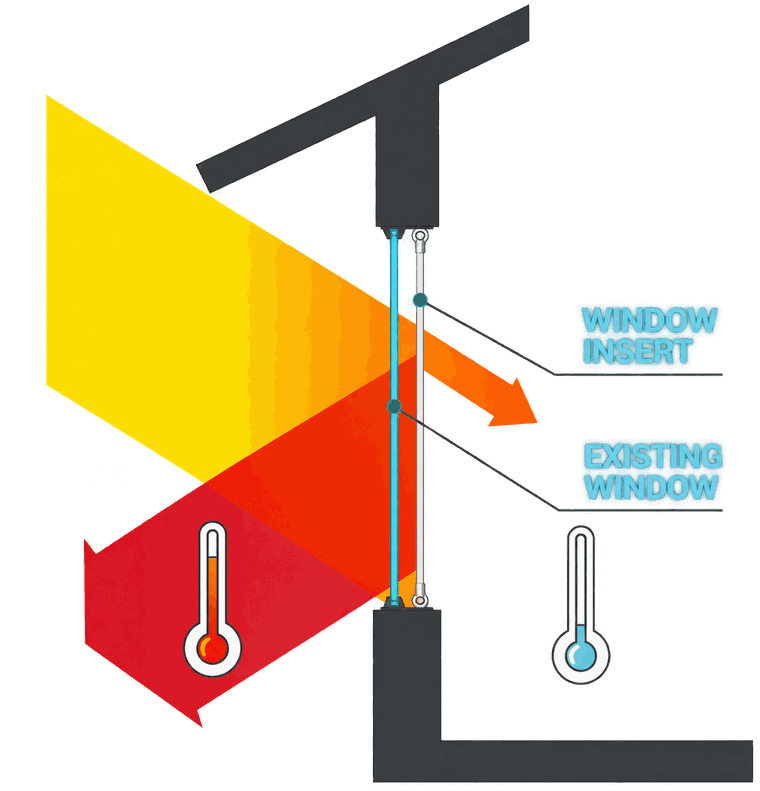
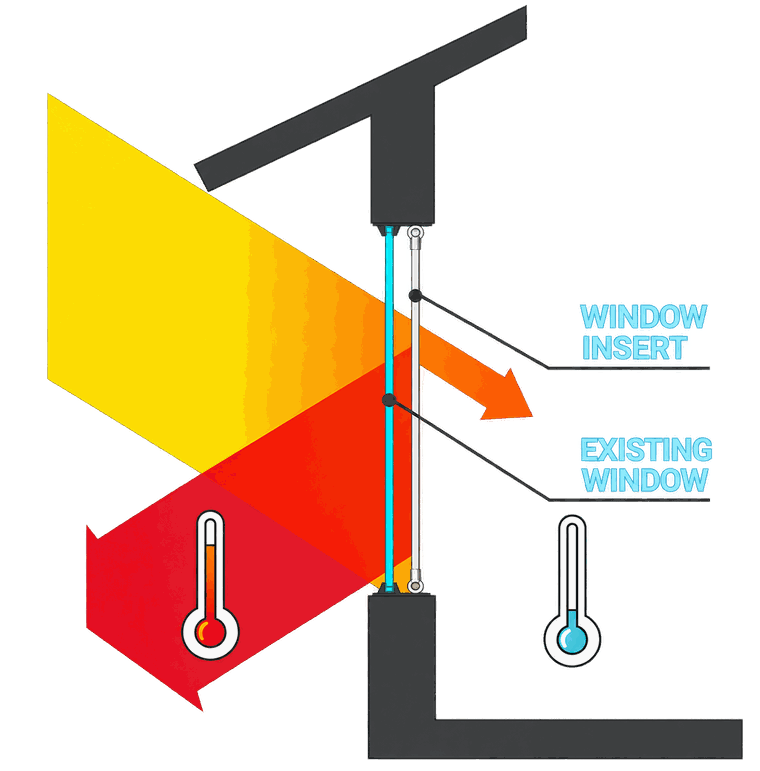
update adding hte noise reduction

diff --git a/window-inserts/index.html b/window-inserts/index.html
@@ -128,8 +128,8 @@ j=d.createElement(s),dl=l!='dataLayer'?'&l='+l:'';j.async=true;j.src=
       <div>
         <p class="eyebrow">Window Inserts · Long Island · East End · NYC</p>
         <h1>Custom Window Inserts for Quieter, More Comfortable Rooms</h1>
-        <p class="page-hero__sub">A quieter, more comfortable room without replacing your windows. A custom-measured interior insert presses into the existing window opening and seals against the frame — adding a layer of still air that helps reduce outside noise, drafts and temperature transfer. Removable whenever you want.</p>
-        <div class="page-hero__actions"><a class="btn btn--cyan btn--lg" href="../contact/?service=window-inserts">Schedule a Consultation</a><a class="btn btn--ghost btn--lg" href="tel:+15163369586">Call 516-336-9586</a></div>
+        <p class="page-hero__sub">Make the room quieter without replacing the windows. A custom-measured interior insert presses into the existing opening and seals against the frame, adding a second layer that helps reduce the outside noise coming through the window &mdash; and, with it, drafts and temperature transfer. Removable whenever you want.</p>
+        <div class="page-hero__actions"><a class="btn btn--cyan btn--lg" href="#quote">Get a Free Quote</a><a class="btn btn--ghost btn--lg" href="tel:+15163369586">Call 516-336-9586</a></div>
       </div>
       <figure class="imgslot imgslot--filled imgslot--thumb imgslot--flat" data-slot="components" data-asset-source="manufacturer">
         <img src="../assets/window-inserts/insert-cutaway-labeled.png" alt="Cutaway of a window insert corner, labelled: silicone tubing around the outside, the ABS carrier holding it, and the acrylic glazing panel" width="560" height="716" loading="eager" fetchpriority="high" decoding="async">
@@ -138,7 +138,38 @@ j=d.createElement(s),dl=l!='dataLayer'?'&l='+l:'';j.async=true;j.src=
   </div>
 </section>
 
-<!-- 2 · THE THREE PARTS, EXPLAINED -->
+<!-- 2 · QUIETER ROOMS — the primary selling point, first thing after the hero.
+     The three cards are GENERATED by tools/build.py. With
+     site.config.json -> windowInserts.manufacturerClaims.enabled = false they
+     are qualitative; set it true (only once the owner confirms the product is
+     Indow Acoustic Grade) and the build swaps in the manufacturer's published
+     figures, attributed to Indow. See docs/NOISE-CLAIMS-PENDING.md. -->
+<section class="section section--navy noise" id="quieter">
+  <div class="container">
+    <div class="section-head center">
+      <p class="eyebrow eyebrow--light" style="justify-content:center">Quieter rooms</p>
+      <h2>Reduce the outside noise coming through your windows</h2>
+      <p class="lead measure center">Traffic, sirens and everyday street noise find their way indoors through windows &mdash; through the glass, and just as much through the gaps around an older sash. A custom-fit insert adds another sealed layer inside the existing opening, helping reduce the sound that makes it through the window without replacing the original window.</p>
+    </div>
+    <div class="noise__row noise__row--visual">
+      <div class="noise__points">
+        <!-- @partial:insert-claims -->
+<div class="card" data-reveal><h3>Up to 70% noise reduction</h3><p>Indow Acoustic Grade inserts are designed to reduce outside noise by up to 70%. In Manhattan, Brooklyn and Queens the window is often the thinnest thing between you and the street; how much a room gains depends on its windows and the other paths sound takes in.</p></div>
+<div class="card" data-reveal><h3>Average 20% energy savings</h3><p>Indow reports average energy savings of 20% with its window inserts &mdash; fewer drafts and less heat moving through the glass, a second benefit you feel in winter and in summer.</p></div>
+<div class="card" data-reveal><h3>Over 99% perfect fit rate</h3><p>Indow reports a perfect-fit rate of over 99% for its custom-measured inserts, with its Snug Fit compression tubing sealing against the frame. Pellikal measures, supplies and installs; the original window is not modified.</p></div>
+<p class="microcopy" style="grid-column:1/-1;margin:.2rem 0 0">Figures published by Indow for its inserts; the noise figure applies to Acoustic Grade. Not a guarantee of results in your room.</p>
+<!-- @end -->
+      </div>
+      <figure class="noise__visual imgslot imgslot--filled imgslot--flat" data-slot="noise-ambulance">
+        <img src="../assets/window-inserts/noise-ambulance.png" alt="Illustration: an ambulance with its siren sounding outside a house window; most of the sound waves bounce off the window insert and only a small amount reaches the room" width="760" height="625" loading="lazy" decoding="async">
+      </figure>
+    </div>
+    <p class="noise__callout" data-reveal><strong>Already have double-pane windows? You can still get quieter.</strong> Double-pane glass already does some of the work, so the gain is smaller than on an older, thinner window &mdash; but a sealed insert adds another layer and closes the gaps around the sash, which is often where the noise is getting in.</p>
+    <p class="microcopy center" style="max-width:64ch;margin:1.2rem auto 0">Quieter, not silent. Sound also enters through walls, doors, ceilings and vents, so no window product makes a room soundproof. How much a room gains depends on the existing windows, the fit and those other paths. Not every opening suits an insert; the consultation determines fit.</p>
+  </div>
+</section>
+
+<!-- 3 · THE THREE PARTS, EXPLAINED -->
 <section class="section section--mist">
   <div class="container">
     <div class="section-head center">
@@ -155,7 +186,7 @@ j=d.createElement(s),dl=l!='dataLayer'?'&l='+l:'';j.async=true;j.src=
 </section>
 
 
-<!-- 3 · HOW IT WORKS — DRAFTS AND HEAT (moved above the form, 14 Sep) -->
+<!-- 4 · HOW IT WORKS — DRAFTS AND HEAT -->
 <section class="section">
   <div class="container">
     <div class="section-head center">
@@ -170,7 +201,7 @@ j=d.createElement(s),dl=l!='dataLayer'?'&l='+l:'';j.async=true;j.src=
       </figure>
       <div data-reveal>
         <h3>Stopping the draft</h3>
-        <p>Older sashes and single-pane windows leak air around the edges. That moving air is why a room can feel cold near the window even when the thermostat says otherwise, and why heating runs longer than it should.</p>
+        <p>Older sashes and loose-fitting windows leak air around the edges. That moving air is why a room can feel cold near the window even when the thermostat says otherwise, and why heating runs longer than it should.</p>
         <p>The insert's compressible edge seals against the frame all the way around, so the leak path is closed off. The draft you feel sitting beside the window is the thing most clients notice first.</p>
       </div>
     </div>
@@ -180,12 +211,12 @@ j=d.createElement(s),dl=l!='dataLayer'?'&l='+l:'';j.async=true;j.src=
     <div class="grid grid--2" style="gap:clamp(1.6rem,4vw,3rem);align-items:center">
       <div data-reveal>
         <h3>Slowing heat transfer</h3>
-        <p>Glass conducts heat readily in both directions — out in winter, in during summer. A single pane has very little to slow it down.</p>
+        <p>Glass conducts heat readily in both directions — out in winter, in during summer. Glass alone has very little to slow it down.</p>
         <p>Adding a second layer traps a pocket of still air between the insert and your existing glass. Still air conducts heat poorly, so the transfer through the window slows and the temperature near the glass evens out.</p>
         <p class="microcopy">Diagrams are illustrative of the principle. Actual results depend on the window, the frame, the insert selected and conditions outside.</p>
       </div>
       <figure class="imgslot imgslot--filled imgslot--sm imgslot--flat" data-slot="diagram-heat">
-        <img src="../assets/window-inserts/diagram-heat.png" alt="Diagram: sunlight and heat striking a window, reduced at the insert fitted inside the existing window, with a cooler thermometer on the room side" width="760" height="791" loading="lazy" decoding="async">
+        <img src="../assets/window-inserts/diagram-heat.png" alt="Diagram: sunlight and heat striking a window, reduced at the insert fitted inside the existing window, with a cooler thermometer on the room side" width="760" height="771" loading="lazy" decoding="async">
       </figure>
     </div>
   </div>
@@ -242,7 +273,7 @@ j=d.createElement(s),dl=l!='dataLayer'?'&l='+l:'';j.async=true;j.src=
 
 
 
-<!-- 4 · MEASUREMENT & FITTING -->
+<!-- 5 · MEASUREMENT & FITTING -->
 <section class="section section--navy">
   <div class="container">
     <div class="section-head center">
@@ -282,7 +313,7 @@ j=d.createElement(s),dl=l!='dataLayer'?'&l='+l:'';j.async=true;j.src=
   </div>
 </section>
 
-<!-- 5 · TWO INSTALLATIONS — not a before/after (moved below measurements, 14 Sep) -->
+<!-- 6 · TWO INSTALLATIONS — not a before/after -->
 <section class="section section--mist">
   <div class="container">
     <div class="section-head center">
@@ -304,13 +335,13 @@ j=d.createElement(s),dl=l!='dataLayer'?'&l='+l:'';j.async=true;j.src=
   </div>
 </section>
 
-<!-- 6 · WHAT INSERTS HELP WITH -->
+<!-- 7 · WHAT INSERTS HELP WITH -->
 <section class="section">
   <div class="container">
     <div class="section-head center"><p class="eyebrow" style="justify-content:center">What inserts help with</p><h2>Noise, drafts and comfort</h2><p class="lead measure center">Results depend on the window, the frame, the insert selected and what's happening outside — but these are the problems people come to us with.</p></div>
     <div class="grid grid--3">
       <div class="card" data-reveal><div class="card__ic"><svg viewBox="0 0 24 24" fill="none" stroke="currentColor" stroke-width="2" stroke-linecap="round" stroke-linejoin="round" aria-hidden="true"><path d="M11 5 6 9H2v6h4l5 4z"/><path d="M15.5 8.5a5 5 0 0 1 0 7M19 5a10 10 0 0 1 0 14"/></svg></div><h3>Outside noise</h3><p>Traffic, street activity, neighbours, landscaping crews. The sealed second layer helps reduce the sound coming through the glass — often the reason people call us first.</p></div>
-      <div class="card" data-reveal><div class="card__ic"><svg viewBox="0 0 24 24" fill="none" stroke="currentColor" stroke-width="2" stroke-linecap="round" stroke-linejoin="round" aria-hidden="true"><path d="M3 12h4l3-7 4 14 3-7h4"/></svg></div><h3>Drafts</h3><p>Older sashes and single-pane windows leak air. An insert that seals to the frame helps stop the draft you feel sitting near the window in winter.</p></div>
+      <div class="card" data-reveal><div class="card__ic"><svg viewBox="0 0 24 24" fill="none" stroke="currentColor" stroke-width="2" stroke-linecap="round" stroke-linejoin="round" aria-hidden="true"><path d="M3 12h4l3-7 4 14 3-7h4"/></svg></div><h3>Drafts</h3><p>Older sashes and loose-fitting windows leak air. An insert that seals to the frame helps stop the draft you feel sitting near the window in winter.</p></div>
       <div class="card" data-reveal><div class="card__ic"><svg viewBox="0 0 24 24" fill="none" stroke="currentColor" stroke-width="2" stroke-linecap="round" stroke-linejoin="round" aria-hidden="true"><path d="M14 14.76V3.5a2.5 2.5 0 0 0-5 0v11.26a4.5 4.5 0 1 0 5 0z"/></svg></div><h3>Temperature transfer</h3><p>The trapped air layer helps slow heat moving through the window in both directions — warmer near the glass in winter, less radiant heat in summer.</p></div>
       <div class="card" data-reveal><div class="card__ic"><svg viewBox="0 0 24 24" fill="none" stroke="currentColor" stroke-width="2" stroke-linecap="round" stroke-linejoin="round" aria-hidden="true"><path d="M3 21h18M5 21V7l7-4 7 4v14M9 21v-6h6v6"/></svg></div><h3>Room comfort</h3><p>Bedrooms over a road, home offices, nurseries, rooms facing the water in winter — anywhere the window is the weak point of an otherwise comfortable room.</p></div>
       <div class="card" data-reveal><div class="card__ic"><svg viewBox="0 0 24 24" fill="none" stroke="currentColor" stroke-width="2" stroke-linecap="round" stroke-linejoin="round" aria-hidden="true"><rect x="3" y="3" width="18" height="18" rx="2"/><path d="M3 12h18M12 3v18"/></svg></div><h3>Insulation</h3><p>Adds an insulating layer to existing glazing without any change to the window itself.</p></div>
@@ -319,7 +350,7 @@ j=d.createElement(s),dl=l!='dataLayer'?'&l='+l:'';j.async=true;j.src=
   </div>
 </section>
 
-<!-- 7 · FILM vs INSERTS -->
+<!-- 8 · FILM vs INSERTS -->
 <section class="section section--mist">
   <div class="container">
     <div class="section-head center"><p class="eyebrow" style="justify-content:center">Film or inserts?</p><h2>Two different jobs. Sometimes both.</h2><p class="lead measure center">Window film and window inserts improve the windows you already have in different ways. They don't solve the same problem, and they can be used together.</p></div>
@@ -332,7 +363,7 @@ j=d.createElement(s),dl=l!='dataLayer'?'&l='+l:'';j.async=true;j.src=
   </div>
 </section>
 
-<!-- 8 · USE CASES + FAQ -->
+<!-- 9 · USE CASES + FAQ -->
 <section class="section">
   <div class="container">
     <div class="grid grid--2" style="align-items:start;gap:clamp(1.6rem,4vw,3.2rem)">
@@ -351,8 +382,10 @@ j=d.createElement(s),dl=l!='dataLayer'?'&l='+l:'';j.async=true;j.src=
         <p>An insert sits inside the frame behind the existing window. From inside, the glazing is set slightly further in; from outside, the window looks as it always did.</p>
         <h3>Can I still open the window?</h3>
         <p>You remove the insert first. It's designed to come out and go back in without tools. For windows you open daily, we'll talk through whether an insert is the right choice for that opening.</p>
-        <h3>Will it stop all the noise?</h3>
-        <p>No product does. An insert helps reduce the sound coming through the glass; how much depends on the window, the frame, the wall and the noise itself. We'll set realistic expectations at the consultation.</p>
+        <h3>How much can window inserts reduce outside noise?</h3>
+        <p>It depends on the window and the room. An insert adds a sealed second layer and an air gap inside the existing opening, which reduces the sound coming through the glass and &mdash; just as importantly &mdash; through the gaps around an older sash. Rooms facing traffic tend to notice the change most. Sound also enters through walls, doors, ceilings and other openings, so no insert makes a room silent. We assess your windows at the consultation and tell you honestly what to expect.</p>
+        <h3>Do window inserts help if I already have double-pane windows?</h3>
+        <p>Yes. Double-pane glass already does some of the work, so the improvement is smaller than on an older, thinner window &mdash; but a sealed insert adds another layer and closes the gaps around the sash, which is often where street noise gets in. The consultation is where we tell you what your particular windows can gain.</p>
         <h3>Is it permanent?</h3>
         <p>No. The insert is removable and the original window is not modified.</p>
       </div>

diff --git a/css/styles.css b/css/styles.css
@@ -30,6 +30,7 @@
      17. Lead form / thanks ... embedded landing-page form, /thankyou/
      18. Insert image scale .. capped image blocks on /window-inserts/
      19. Consent v2 .......... three-choice banner, dialog, switches, tile button
+     20. Quieter rooms ....... noise section on /window-inserts/
 
    CONVENTIONS
      • Block__element--modifier naming, e.g. .card__title, .btn--cyan
@@ -1169,3 +1170,47 @@ html.consent-dialog-open{overflow:hidden}
 .tile__open img{display:block;width:100%;height:100%;object-fit:cover}
 
 .tile__open:focus-visible{outline:3px solid var(--cyan);outline-offset:3px}
+
+
+/* ==========================================================================
+   20. WINDOW INSERTS — QUIETER ROOMS (primary selling point, on navy)
+   ==========================================================================
+   Copy left, street-noise visual right. The visual <figure> ships EMPTY and
+   is hidden until the owner's image is added, at which point the row becomes
+   two columns automatically. No :has() needed — flex does it.
+   ========================================================================== */
+.noise__row{display:flex;align-items:center;gap:clamp(1.4rem,4vw,3rem);margin-top:.4rem}
+
+/* Three across while the visual slot is empty; stacked beside the image once
+   .noise__row--visual is added along with the <img>. */
+.noise__points{flex:1 1 0;display:grid;gap:.9rem;min-width:0;grid-template-columns:repeat(3,minmax(0,1fr))}
+
+.noise__row--visual .noise__points{grid-template-columns:1fr}
+
+.noise__points .card{padding:1.1rem 1.25rem}
+
+.noise__points .card h3{margin-bottom:.3rem}
+
+.noise__points .card p{margin:0}
+
+/* The illustration is a transparent PNG drawn for a dark background: it sits
+   straight on the section navy, no plate, no shadow. */
+.noise__visual{flex:0 0 clamp(240px,34%,400px);max-width:400px}
+
+.noise__visual img{border-radius:0}
+
+.noise__visual:empty{display:none}
+
+.noise__callout{max-width:68ch;margin:1.6rem auto 0;padding:.95rem 1.2rem;border-left:3px solid var(--cyan);background:rgba(21,188,212,.08);border-radius:0 12px 12px 0;color:var(--on-dark);line-height:1.6}
+
+.noise__callout strong{color:#fff}
+
+@media (max-width:860px){
+  .noise__row{flex-direction:column;align-items:stretch}
+  .noise__points{grid-template-columns:1fr}
+  .noise__visual{flex:0 0 auto;max-width:min(100%,340px);margin-inline:auto}
+}
+
+
+/* "Get a Free Quote" in the hero jumps here; clear the sticky header. */
+#quote{scroll-margin-top:90px}

diff --git a/tools/build.py b/tools/build.py
@@ -417,6 +417,39 @@ def quote_form(cfg, variant, depth):
     return out
 
 
+def insert_claims(cfg):
+    """The three cards in the /window-inserts/ "Quieter rooms" section.
+
+    Two variants, chosen by site.config.json -> windowInserts.manufacturerClaims:
+
+    enabled = false  -> qualitative cards. True of any sealed insert; names no
+                        manufacturer; carries no figures.
+    enabled = true   -> the manufacturer's PUBLISHED figures, attributed to the
+                        manufacturer in every sentence ("Indow reports…",
+                        "designed to…"), never phrased as a Pellikal promise.
+                        Noise stays the headline; energy is second.
+
+    Flip to true only after the owner has confirmed, in writing, that the
+    product sold is the named manufacturer's named grade. The figures are
+    theirs and only apply to their product.
+    """
+    mc = (cfg.get("windowInserts") or {}).get("manufacturerClaims") or {}
+    if not mc.get("enabled"):
+        return (
+            '<div class="card" data-reveal><h3>Quieter</h3><p>Helps reduce the traffic, sirens and street noise coming through the window &mdash; the reason most people call. In Manhattan, Brooklyn and Queens the window is often the thinnest thing between you and the street.</p></div>\n'
+            '<div class="card" data-reveal><h3>More comfortable</h3><p>The same sealed layer cuts drafts and slows temperature transfer through the glass &mdash; a second benefit you feel in winter and in summer.</p></div>\n'
+            '<div class="card" data-reveal><h3>Made for your window</h3><p>Custom-measured for each opening, pressed into place, removable without tools. The original window is not modified.</p></div>'
+        )
+    m = mc.get("manufacturer", "the manufacturer")
+    g = mc.get("grade", "")
+    return (
+        '<div class="card" data-reveal><h3>Up to 70% noise reduction</h3><p>' + m + ' ' + g + ' inserts are designed to reduce outside noise by up to 70%. In Manhattan, Brooklyn and Queens the window is often the thinnest thing between you and the street; how much a room gains depends on its windows and the other paths sound takes in.</p></div>\n'
+        '<div class="card" data-reveal><h3>Average 20% energy savings</h3><p>' + m + ' reports average energy savings of 20% with its window inserts &mdash; fewer drafts and less heat moving through the glass, a second benefit you feel in winter and in summer.</p></div>\n'
+        '<div class="card" data-reveal><h3>Over 99% perfect fit rate</h3><p>' + m + ' reports a perfect-fit rate of over 99% for its custom-measured inserts, with its Snug Fit compression tubing sealing against the frame. Pellikal measures, supplies and installs; the original window is not modified.</p></div>\n'
+        '<p class="microcopy" style="grid-column:1/-1;margin:.2rem 0 0">Figures published by ' + m + ' for its inserts; the noise figure applies to ' + g + '. Not a guarantee of results in your room.</p>'
+    )
+
+
 QUOTE_FORM_MARKER = re.compile(
     r"<!-- @partial:quote-form:([a-z_]+) -->.*?<!-- @end -->", re.S
 )
@@ -557,6 +590,9 @@ def main():
         html, has_sb = apply_supabase_script(html, depth, force=(path == "admin/index.html"))
         if has_sb:
             supabase_pages.append(path)
+
+        # Window Inserts performance cards (only that page carries the marker).
+        html, _ = apply_partial(html, "insert-claims", insert_claims(cfg))
 
         # The shared quote form, wherever a page asks for it.
         html, form_variants = apply_quote_forms(html, cfg, depth)

diff --git a/docs/NOISE-CLAIMS-PENDING.md b/docs/NOISE-CLAIMS-PENDING.md
@@ -1,0 +1,86 @@
+# NOISE-CLAIMS-PENDING.md
+
+Manufacturer performance figures for `/window-inserts/` — **LIVE since 15
+September 2026**, enabled at the owner's request for "a real decibel figure".
+This file is now the record of what the switch does and how to revert it.
+
+## Current state
+
+The three cards in the "Quieter rooms" section are generated by
+`tools/build.py` → `insert_claims()` from one switch:
+
+```json
+"windowInserts": { "manufacturerClaims": { "enabled": true, ... } }   // site.config.json
+```
+
+| `enabled` | What renders |
+|---|---|
+| `false` | Qualitative cards — "Quieter", "More comfortable", "Made for your window". Names no manufacturer, carries no figures. |
+| `true` (now) | **Up to 70% noise reduction** · **Average 20% energy savings** · **Over 99% perfect fit rate**, each sentence attributed ("Indow Acoustic Grade inserts are designed to…", "Indow reports…"), "with its Snug Fit compression tubing", plus a note that the figures are Indow's and not a guarantee. Noise first, energy second. Never "our patented". |
+
+The enabled variant was rendered and inspected on 14 Sep (wording, attribution,
+no "our patented", no soundproof/silent language) and then switched back off.
+
+## Revert — one line, no developer needed
+
+Set `"enabled": false` in `site.config.json`, run `python3 tools/build.py`,
+and the page goes back to qualitative cards with no manufacturer named and no
+band. Do that immediately if the product sold is not Indow Acoustic Grade.
+
+## What was done to go live (15 Sep 2026)
+
+1. **Ask Bart, and get the answer in writing:**
+   > "Just confirming — these are the Indow **Acoustic Grade** inserts we're
+   > selling, correct? If yes I'll use Indow's 70% noise / 20% energy / 99% fit
+   > stats and attribute them to Indow."
+2. `"enabled": true` set and rebuilt (done).
+3. CLAIMS-SOURCES rows moved to ✅ (done). Step 1 — the written confirmation
+   — is still worth keeping on file; the owner's instruction to publish the
+   decibel figure was taken as that confirmation.
+
+If Pellikal sells **both** grades, change `insert_claims()` so the noise card
+says the figure applies to Acoustic Grade and the consultation determines the
+grade proposed — the attribution note already says the first half.
+
+## Why it is not simply on
+
+The website has never identified the inserts as Indow. "Indow reports…" is a
+statement that Pellikal sells Indow. That is very likely true from the
+material the owner has sent, but "very likely" is not a basis for a published
+manufacturer claim. One sentence from the owner closes it.
+
+## Sources (verified by the reviewer on Indow's official site, 14 Sep 2026;
+## this sandbox cannot fetch them)
+
+- https://indowwindows.com/products/indow-window-inserts — up to 70% noise
+  reduction, average 20% energy savings, over 99% perfect fit rate, Snug Fit
+  compression tubing
+- https://indowwindows.com/products/acoustic-window-inserts — Acoustic Grade:
+  up to 70% noise reduction, average 20% heating/cooling savings
+- https://indowwindows.com/solutions/noise-performance — tested figures: 18.9
+  dBA (~70%) over operable single-pane; ~10–12 dBA (~50%) over operable
+  double-pane; room results vary
+- https://indowwindows.com/noise-disclaimer
+
+## The tested-dBA band — added then removed the same day
+
+A compact band with the 18.9 dBA / 10–12 dBA figures sat above "How it works"
+for part of 15 Sep. The owner then decided the page should stay general on
+noise ("helps reduce outside noise", "quieter rooms") rather than lead with
+exact decibels, so the band, its generator (`insert_db()`) and its CSS were
+removed. No exact dB figure appears anywhere on the page. The three
+manufacturer-attributed cards (70% / 20% / 99%) remain, still under the same
+switch.
+
+## Optional, not wired
+
+The FAQ answer "How much can window inserts reduce outside noise?" can gain,
+after its first sentence:
+
+> In independent testing published by Indow, Acoustic Grade inserts reduced
+> sound through operable single-pane windows by up to 18.9 dBA (about 70%)
+> and through operable double-pane windows by roughly 10–12 dBA (about 50%),
+> under tested conditions.
+
+Never convert dBA into "X times quieter". Keep single- and double-pane
+figures separate. Avoid Indow's own "nearly soundproof" phrasing.

diff --git a/docs/CLAIMS-SOURCES.md b/docs/CLAIMS-SOURCES.md
@@ -39,3 +39,18 @@ JSON-LD and the Residential/Solutions pages said "Select LLumar® … block more
 than 99%". The visible copy now uses the narrower, sourced wording. The claim
 was **narrowed**, not broadened. Rows 8–9 were closed the same day against LLumar's official
 residential solar-control page (recorded in the table above).
+
+
+---
+
+## Window inserts — noise claims (added 14 Sep 2026)
+
+| Claim | Where | Basis | Status |
+|---|---|---|---|
+| "helps reduce the outside noise coming through the window" / "you can still get quieter" (double-pane) / "quieter, not silent" | /window-inserts/ hero, Quieter rooms section, FAQ | General principle: an added sealed layer plus an air gap reduces sound transmission through the glass and closes the leak paths around the sash. No figures used. Every instance is qualified ("helps", "depends on the window"). | ✅ Qualitative only — publishable |
+| "no window product makes a room soundproof" / sound also enters through walls, doors, ceilings, vents | same | Consistent with the manufacturer disclaimer below and with the existing FAQ | ✅ |
+| **Up to 70% noise reduction · Average 20% energy savings · Over 99% perfect fit rate · "with its Snug Fit compression tubing"** | **LIVE — enabled 15 Sep 2026** (`site.config.json` → `windowInserts.manufacturerClaims.enabled`) | Indow official product pages, verified by the reviewer 14 Sep 2026: https://indowwindows.com/products/indow-window-inserts · https://indowwindows.com/products/acoustic-window-inserts | ✅ **Enabled 15 Sep 2026 at the owner's request** for a real decibel figure on the page. Note: the owner asked for the figures having been told they are Indow's Acoustic Grade numbers; a separate written sentence "we sell Indow Acoustic Grade" is still worth keeping on file. Every figure is attributed to Indow; never a Pellikal guarantee; never "our patented". Revert = `enabled: false` + rebuild. |
+| **Up to 18.9 dBA / ~70% (Acoustic Grade over operable single-pane)** and **about 10–12 dBA / ~50% (Acoustic Grade over operable double-pane)** | **REMOVED from the page 15 Sep 2026 (owner: no exact decibel figures)** | Indow official sources (recorded, not fetched from this sandbox): https://indowwindows.com/window-soundproofing-for-noise · https://indowwindows.com/solutions/noise-performance · https://indowwindows.com/noise-disclaimer | ⏸ Not on the page. Recorded here in case they are ever wanted; the owner has chosen general noise wording over exact dB. |
+
+Never apply Acoustic Grade figures to Standard Grade. Never convert dBA into
+"X times quieter". Keep single-pane vs double-pane figures separate.

diff --git a/docs/WINDOW-INSERTS-ASSETS.md b/docs/WINDOW-INSERTS-ASSETS.md
@@ -147,3 +147,27 @@ attribute was removed from those two figures — they no longer depend on
 `WINDOW_INSERT_ASSETS_APPROVED`. Rendered flat (`.imgslot--flat`: no shadow,
 no radius) like the hero cutaway. The previous `diagram-draft.jpg` /
 `diagram-heat.jpg` are unreferenced and left in place.
+
+
+## Noise visual — WIRED 14 Sep 2026 (evening)
+
+`noise-ambulance.png` — the owner's illustration of an ambulance outside a
+window with most of the sound bouncing off the insert — is in place (replaced
+15 Sep, twice — final version is the owner's navy-background artwork with its
+baked-in blue keyed out to transparency, edge-corrected so nothing fringes):
+transparent, 760×625, 256-colour palette, 83 KB, sitting directly on the
+section navy with no plate, rendered flat, owner artwork (no
+`data-asset-source`). The row carries `noise__row--visual` so the three cards
+stack beside it. The slot mechanism below is kept for reference / replacement:
+
+1. Save it as `assets/window-inserts/noise-ambulance.png` (transparent
+   background, trimmed, ~760 px wide, 256-colour palette — same treatment as
+   the diagrams; `docs/FINAL-SECURITY-AUDIT.md` has the Pillow one-liner).
+2. Inside the figure add
+   `<img src="../assets/window-inserts/noise-ambulance.png" alt="…" width="W" height="H" loading="lazy" decoding="async">`
+   with a real alt describing the scene (e.g. "Illustration: an ambulance with
+   its siren on outside a window, the noise reduced inside by a window insert").
+3. Do **not** add `data-asset-source="manufacturer"` — it is owner artwork.
+4. Add the class `noise__row--visual` to the `.noise__row` div so the three
+   cards stack beside the image instead of running three across.
+5. Rebuild.

diff --git a/docs/OWNER-LEGAL-REVIEW.md b/docs/OWNER-LEGAL-REVIEW.md
@@ -19,6 +19,8 @@ They are not a substitute for attorney review.
 | 3 | **Warranty language.** The Terms now say warranties are the *manufacturer's* — film manufacturer for film, insert manufacturer for inserts — and that Pellikal installs but does not manufacture. Confirm this is accurate for every product sold, and provide the actual warranty terms/limits if any are to be quoted. | No warranty coverage was invented. |
 | 4 | **Data retention.** How long are enquiry emails and Formspree submissions kept? The policy says "as long as needed to respond and to maintain normal business records". Replace with a real period if you have one. | Truthful but vague. |
 
+| 4b | **Insert manufacturer and grade.** Confirm the inserts are made by Indow and whether the noise-reduction product quoted is Acoustic Grade. **Now live (15 Sep) at the owner's request.** The page names Indow and attributes the 70% / 20% / 99% and dBA figures to it. Please keep one written line on file confirming the product is Indow Acoustic Grade; if it is not, set `windowInserts.manufacturerClaims.enabled` to false and rebuild. | Publishing manufacturer test data implicitly claims the product. |
+
 ## DECISIONS — owner
 
 | # | Question | Default in the code today |
